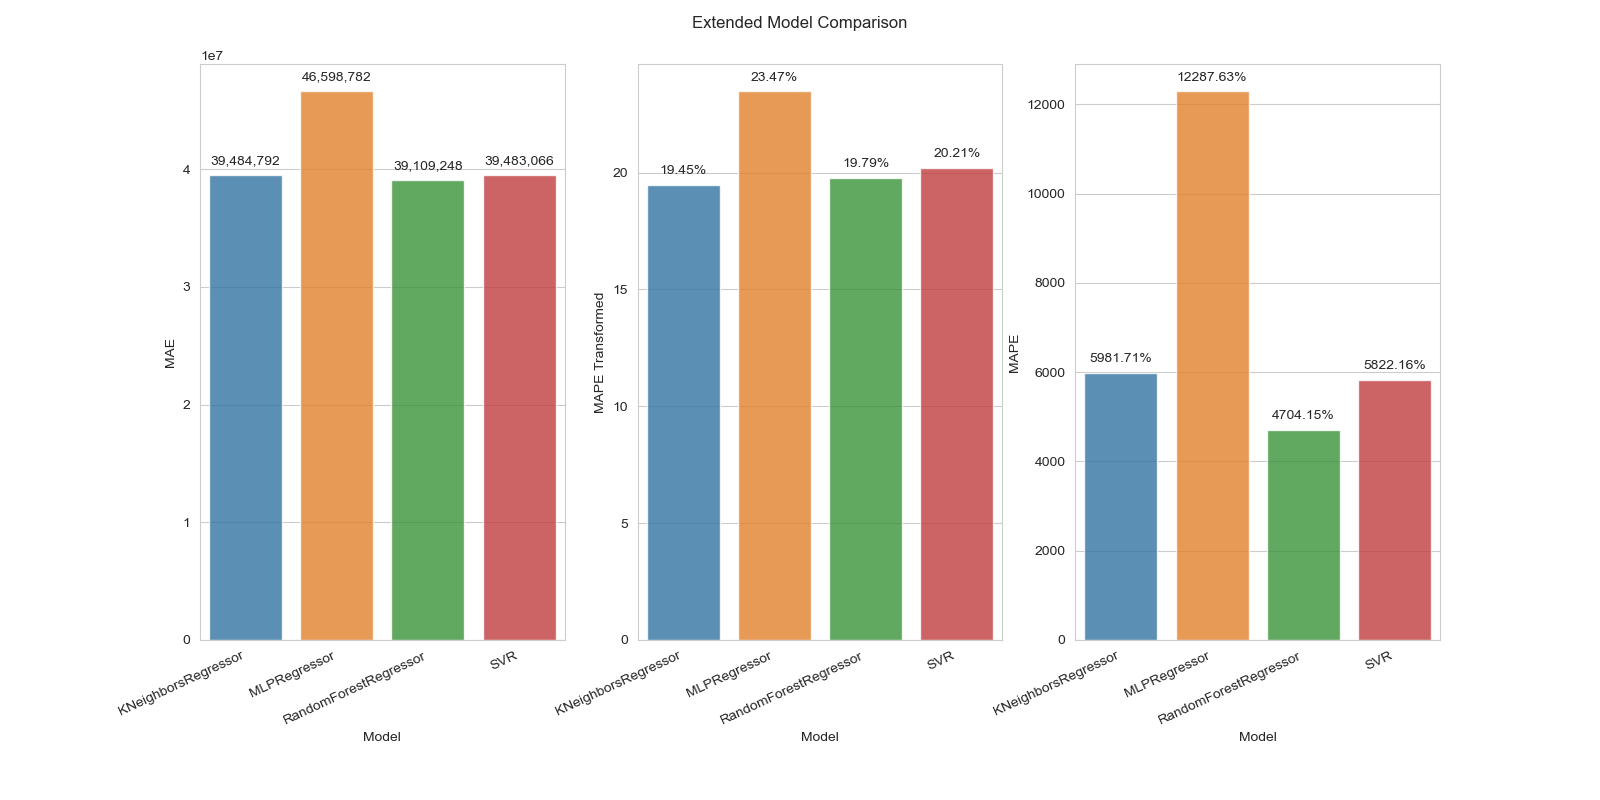
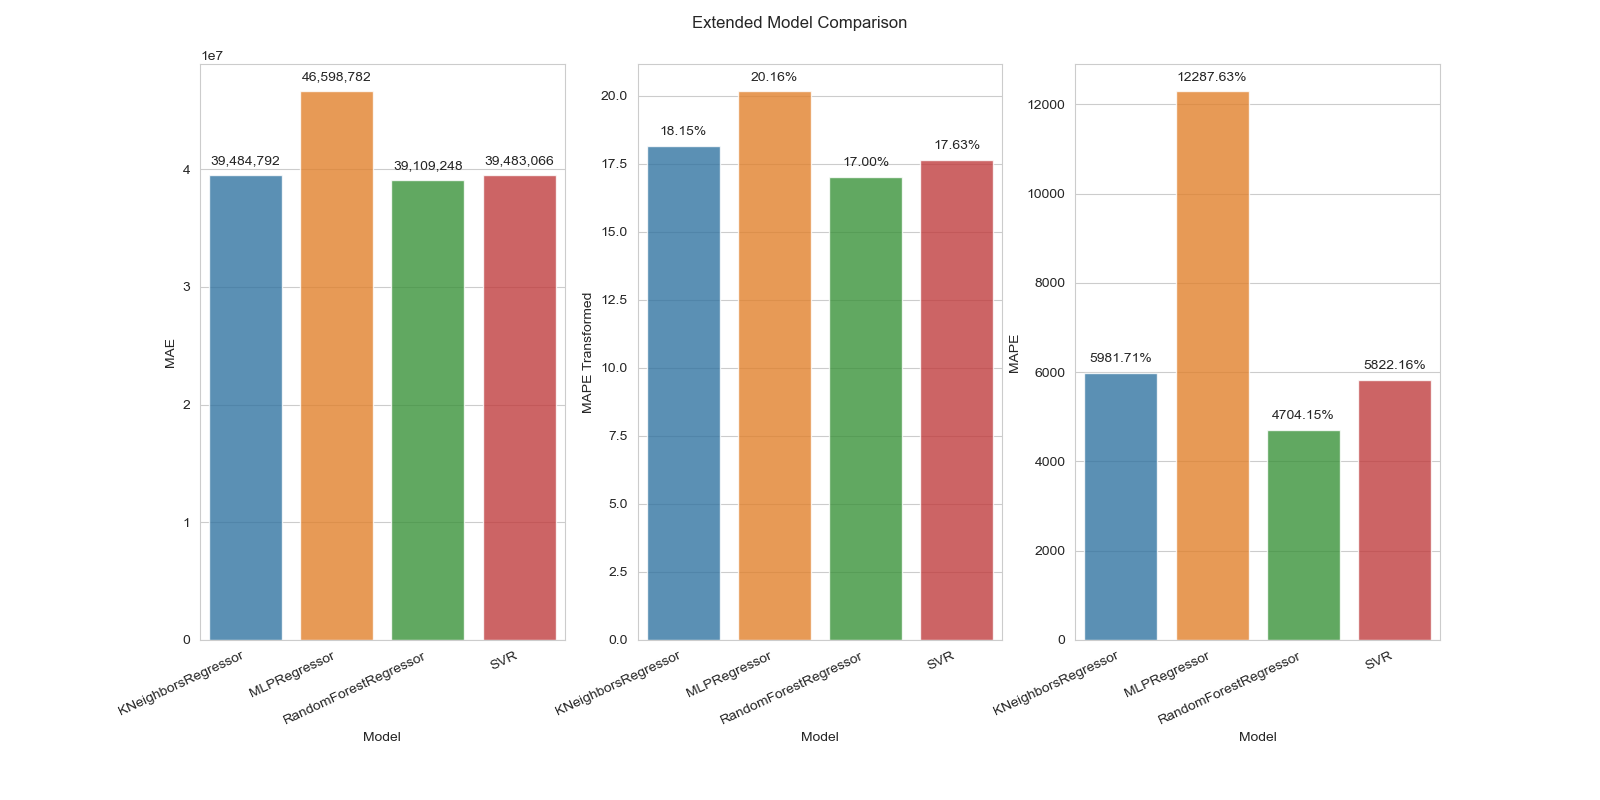
Fixed small bug calculating MAPE in a wrong way.

diff --git a/src/model/extended_model_comparison.py b/src/model/extended_model_comparison.py
@@ -108,21 +108,44 @@ def compute_sorted_residual_plots_for_all(models_to_load, model_specs, save_path
         plot_sorted_residuals(model, data_dict=FULL_DATA_DICT, model_info=model_info, savefig=save_path)
 
 
-def compute_scores(model_path, X_test, y_test):
-    pipeline = ut.load_model(model_path)
-    y_pred = pipeline.predict(X_test)
+# def compute_scores(model_path, X_test, y_test):
+#     pipeline = ut.load_model(model_path)
+#     y_pred = pipeline.predict(X_test)
+#
+#     if check_log_tf(model_path):
+#         y_pred = DataManager.inv_tf(y_pred)
+#
+#     y_test_vec = np.array(y_test).ravel()
+#
+#     mae = mean_absolute_error(y_test_vec, y_pred)
+#     # mre = mean_relative_error(y_test_vec, y_pred)
+#     y_test_tf, y_pred_tf = DataManager.log_tf(y_test, y_pred)
+#     mape_tf = mean_absolute_percentage_error(y_test_tf, y_pred_tf)
+#     mape = mean_absolute_percentage_error(y_test_vec, y_pred)
+#     print(pipeline[-1].__class__.__name__, mape_tf, mape)
+#
+#     return pipeline[-1].__class__.__name__, mae, mape_tf, mape
 
+def compute_scores(model_path, X_test, y_test, log_tf=True):
+    pipeline = ut.load_model(model_path)
+    X_train, X_test, y_train, y_test = DataManager.load_tts_data(**FULL_DATA_DICT)
+    y_pred = pipeline.predict(X_test)
     if check_log_tf(model_path):
         y_pred = DataManager.inv_tf(y_pred)
 
-    y_test_vec = np.array(y_test).ravel()
+    y_test = np.array(y_test).ravel()
 
-    mae = mean_absolute_error(y_test_vec, y_pred)
-    # mre = mean_relative_error(y_test_vec, y_pred)
-    y_test_tf, y_pred_tf = DataManager.log_tf(y_test, y_pred)
-    mape_tf = mean_absolute_percentage_error(y_test_tf, y_pred_tf)
-    mape = mean_absolute_percentage_error(y_test_vec, y_pred)
+    sorted_idx = y_test.argsort()
+    y_test_srt = y_test[sorted_idx]
+    y_pred_srt = y_pred[sorted_idx]
 
+    if log_tf:
+        y_test_srt, y_pred_srt = DataManager.log_tf(y_test_srt, y_pred_srt)
+
+    mae = mean_absolute_error(y_test, y_pred)
+    mape_tf = mean_absolute_percentage_error(y_test_srt, y_pred_srt)
+    mape = mean_absolute_percentage_error(y_test, y_pred)
+    print(pipeline[-1].__class__.__name__, mape_tf, mape)
     return pipeline[-1].__class__.__name__, mae, mape_tf, mape
 
 
@@ -156,4 +179,4 @@ def error_summary(models_to_load, model_specs, save_path, ylimr, data_dict=FULL_
 
 
 error_summary(models_to_load, model_specs, save_path_overall, [0, 1000])
-compute_sorted_residual_plots_for_all(models_to_load, model_specs, save_paths_resid_comp)
+# compute_sorted_residual_plots_for_all(models_to_load, model_specs, save_paths_resid_comp)
